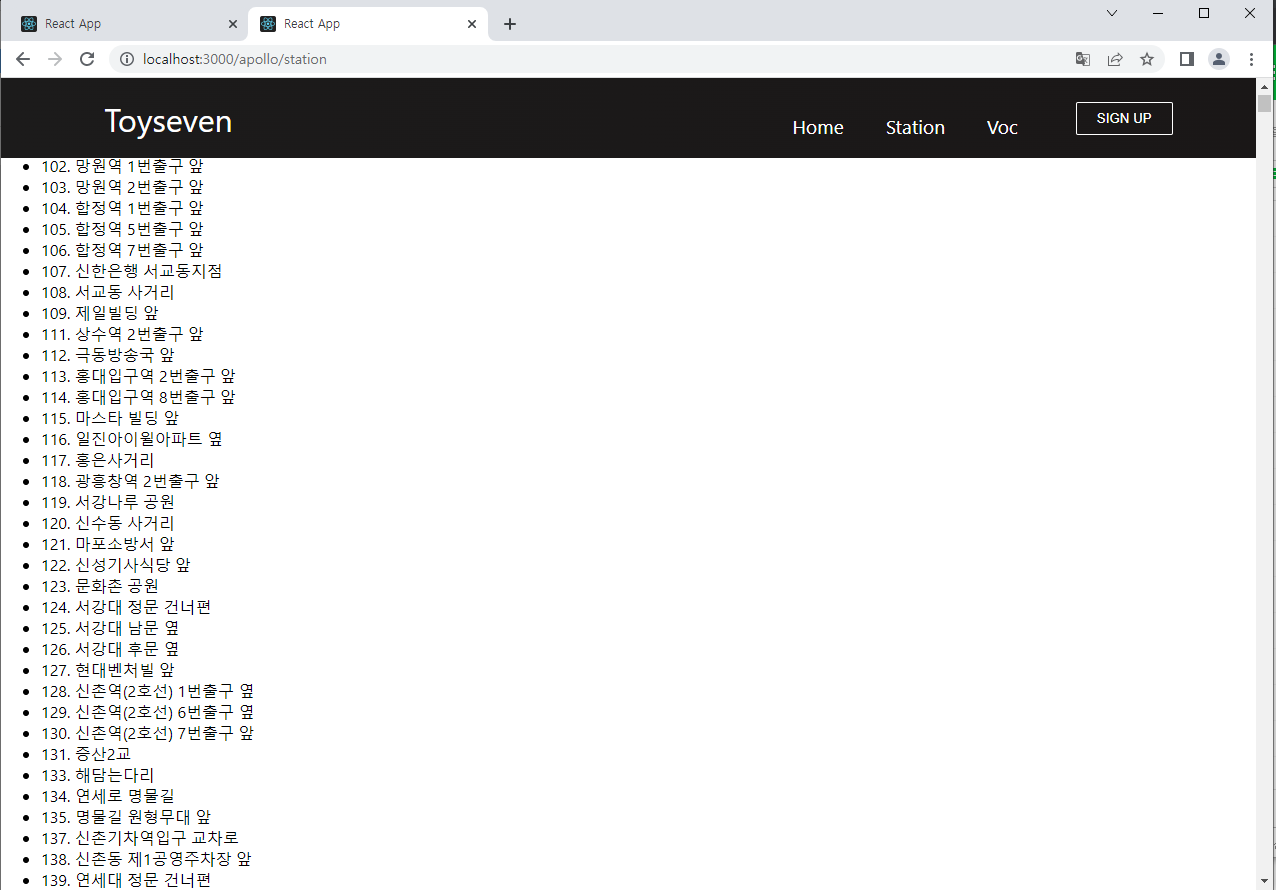
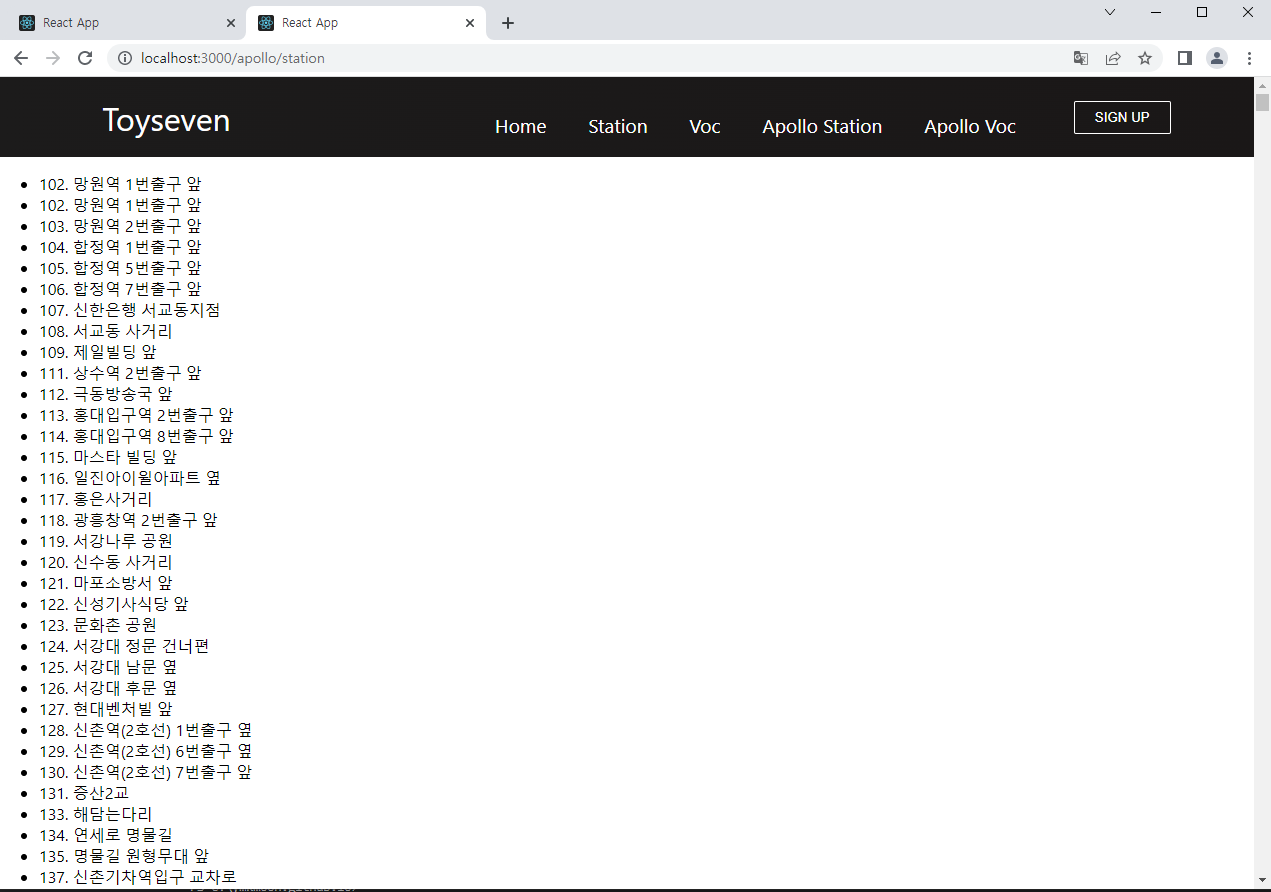
style: Add description about navigation

diff --git a/_posts/react/2022-04-26-React-09-Apollo.md b/_posts/react/2022-04-26-React-09-Apollo.md
@@ -27,7 +27,36 @@ Apollo Query 가 Restful API의 Get Method 역할을 한다고 한다. <br>
 하지만, Query 를 이용해도 별도의 설정을 해주지 않으면 Method 의 Default 값이 Post 로 넘어가는 걸 확인했다. <br>
 나는 `Apollo GQL` 을 이용해 `REST API`에 요청과 응답을 하고 싶기에, `apollo-link-rest` 의 `RestLink` 를 사용했다.
 
-### ``2. Route 설정``
+
+### ``2. 메뉴 생성``
+
+🛠 /components/Navbar.js
+
+```js
+<li className='nav-item'>
+    <Link to='/apollo/station' className='nav-links' onClick = {closeMobileMenu}>
+        Apollo Station
+    </Link>
+</li>
+<li className='nav-item'>
+    <Link to='/apollo/voc' className='nav-links' onClick = {closeMobileMenu}>
+        Apollo Voc
+    </Link>
+</li>
+```
+
+🛠 /components/Navbar.css
+
+```css
+.nav-menu {
+    ...
+    grid-template-columns: repeat(6, auto); # 4 -> 6 으로 수정
+    ...
+  }
+```
+
+
+### ``3. Route 설정``
 
 - 작성 페이지로 이동 할 수 있도록 Route 설정과 매개변수명을 지정한다.
 
@@ -60,7 +89,7 @@ export default App;
 ```
 
 
-### ``3. Apollo 페이지 생성``
+### ``4. Apollo Component 생성``
 
 🛠 pages/apollo/ApolloStation.js
 
@@ -126,7 +155,7 @@ export default ApolloStation;
 
 <br>
 
-### ``4. 에러 해결``
+### ``5. 에러 해결``
 
 - Module not found: Error: Can't resolve 'graphql-anywhere/lib/async' 에러 발생 시 아래 문서에 내용을 추가 한다.
 
@@ -169,7 +198,7 @@ node-sass 는 Node 버전에 의존적이니 아래 내용 참고.
 |Node <8|<5.0|<57|
 
 
-### 5. Axios 와 Apollo GQL 과의 차이점
+### ``6. Axios 와 Apollo GQL 과의 차이점``
 
 #### REST API(요청을 위해서 End point(url)을 가지고 API call을 생성해서 호출) 의 단점을 보완하기 위해 나온게 GraphQL 을 기반으로 한 Apollo Client 라고 한다.
 
@@ -182,8 +211,8 @@ node-sass 는 Node 버전에 의존적이니 아래 내용 참고.
   - 존의 API의 End point가 삭제될 경우 기존의 사용자가 문제가 발생할 위험이 있다.
 
 
-1) Response 의 형태가 다르다.
-  - Axios (endpoint 의 데이터가 모두 response 된다.)
+
+  1) Axios (endpoint 의 데이터가 모두 response 된다.)
 
     ```json
       {
@@ -207,7 +236,7 @@ node-sass 는 Node 버전에 의존적이니 아래 내용 참고.
       }
     ```
 
-  - Apollo (GQL을 이용해 내가 원하는 값만 받아 올 수 있다.)
+  2) Apollo (GQL을 이용해 내가 원하는 값만 받아 올 수 있다.)
 
     ```json
     {
